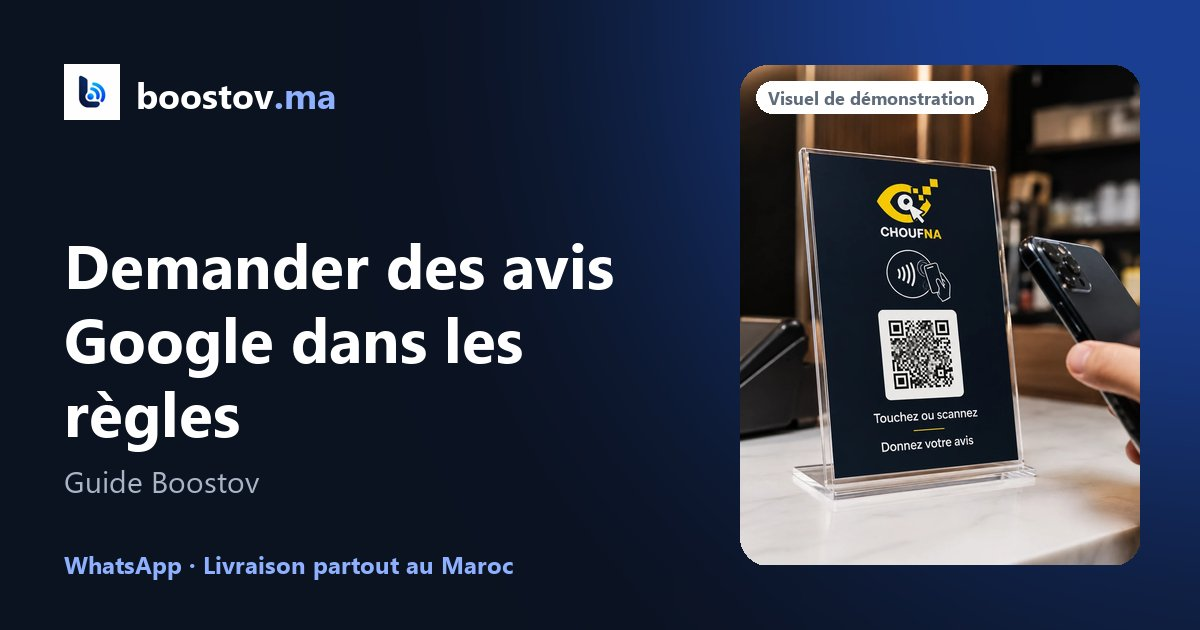
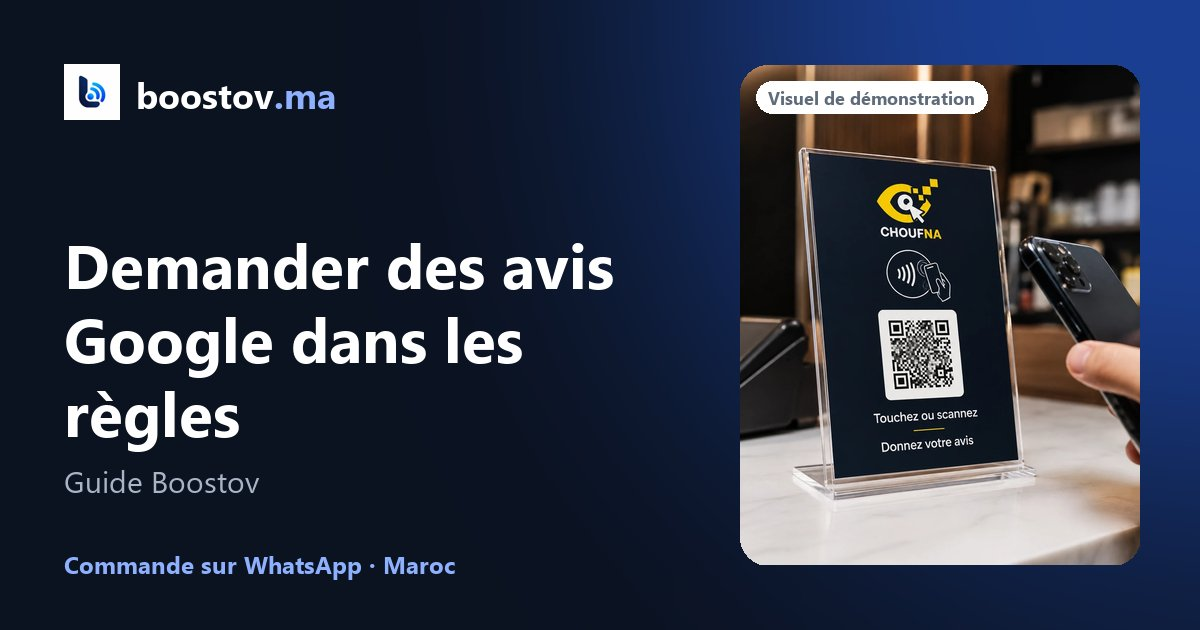
Remove all delivery prices from the site (discussed per customer on WhatsApp)

Changed region(s): [[0.0308, 0.8746, 0.4317, 0.9349]]

diff --git a/content/pages.fr.ts b/content/pages.fr.ts
@@ -2,11 +2,11 @@
 // prices only from src/config/pricing.ts, unconfirmed facts omitted (see content/TODO.md).
 import { PRICING } from "@/src/config/pricing";
 
-const { connect, grow, delivery, kits } = PRICING;
+const { connect, grow, kits } = PRICING;
 
 export const produits = {
   title: "Carte NFC Connect ou Grow : comparatif et prix | Boostov",
-  description: `Comparez Boostov Connect (carte de visite digitale, dès ${connect.carte} DH) et Boostov Grow (avis Google et fidélisation client, dès ${grow.carte} DH). Carte ou stand, livraison +${delivery} DH au Maroc.`,
+  description: `Comparez Boostov Connect (carte de visite digitale, dès ${connect.carte} DH) et Boostov Grow (avis Google et fidélisation client, dès ${grow.carte} DH). Carte ou stand, commande sur WhatsApp.`,
   eyebrow: "Produits",
   h1: "Connect ou Grow : quelle carte NFC pour votre commerce ?",
   lead: "Choisissez Connect pour que vos clients vous contactent, Grow pour obtenir des avis Google et les faire revenir. Les deux existent en carte et en stand de comptoir.",
@@ -47,7 +47,6 @@ export const produits = {
     ],
   },
   notes: [
-    `Livraison partout au Maroc : +${delivery} DH sur chaque commande.`,
     "La personnalisation est incluse dans le prix.",
     "La récompense Grow n’est jamais conditionnée à la publication d’un avis.",
   ],
@@ -87,7 +86,7 @@ export const stands = {
 
 export const revendeurs = {
   title: "Devenir revendeur NFC au Maroc : kits Boostov | Boostov",
-  description: `Kits revendeur Boostov : Kit 5 à ${kits.kit5.price} DH, Kit 10 à ${kits.kit10.price} DH (+${delivery} DH de livraison). Cartes NFC, accès au système et formation. Réservé aux 18 ans et plus.`,
+  description: `Kits revendeur Boostov : Kit 5 à ${kits.kit5.price} DH, Kit 10 à ${kits.kit10.price} DH : cartes NFC, accès au système et formation. Réservé aux 18 ans et plus.`,
   eyebrow: "Revendeurs",
   h1: "Devenir revendeur NFC Boostov.",
   lead: `Deux kits pour proposer Boostov aux commerces de votre ville : Kit 5 à ${kits.kit5.price} DH ou Kit 10 à ${kits.kit10.price} DH.`,
@@ -109,7 +108,7 @@ export const revendeurs = {
     title: "Comment ça marche",
     steps: [
       ["Précommandez sur WhatsApp", "Choisissez le Kit 5 ou le Kit 10."],
-      ["Recevez votre kit", `Livraison partout au Maroc, +${delivery} DH.`],
+      ["Recevez votre kit", "Avec vos cartes NFC Boostov."],
       ["Suivez la formation", "Et recevez votre accès au système."],
       ["Proposez Boostov", "Aux commerces de votre ville."],
     ] as [string, string][],
@@ -123,18 +122,17 @@ export const revendeurs = {
 };
 
 export const faqPage = {
-  title: "FAQ cartes et stands NFC : livraison, NFC ou QR, commande | Boostov",
-  description: "Réponses courtes sur les cartes et stands NFC Boostov : prix, livraison au Maroc, NFC ou QR code, personnalisation, avis Google et programme revendeur.",
+  title: "FAQ cartes et stands NFC : prix, NFC ou QR, commande | Boostov",
+  description: "Réponses courtes sur les cartes et stands NFC Boostov : prix, commande, NFC ou QR code, personnalisation, avis Google et programme revendeur.",
   eyebrow: "FAQ",
   h1: "Questions fréquentes sur les cartes et stands NFC.",
   lead: "Des réponses courtes et honnêtes. Une autre question ? Écrivez-nous sur WhatsApp.",
   groups: [
     {
-      id: "commande", title: "Commande, prix et livraison",
+      id: "commande", title: "Commande et prix",
       items: [
-        ["Comment commander ?", "Sur WhatsApp uniquement. Touchez un bouton « Commander » : le message nomme déjà le produit, puis nous confirmons avec vous le design, le paiement et la livraison."],
+        ["Comment commander ?", "Sur WhatsApp uniquement. Touchez un bouton « Commander » : le message nomme déjà le produit, puis nous confirmons avec vous le design et le paiement."],
         ["Combien coûtent les produits ?", `Connect : carte ${connect.carte} DH, stand ${connect.stand} DH. Grow : carte ${grow.carte} DH, stand ${grow.stand} DH. La personnalisation est incluse.`],
-        ["Combien coûte la livraison ?", `${delivery} DH sur chaque commande, partout au Maroc.`],
       ],
     },
     {

diff --git a/lib/site.ts b/lib/site.ts
@@ -1,60 +1,1 @@
-// Site copy shared by several pages. Prices always come from src/config/pricing.ts.
-import { PRICING } from "@/src/config/pricing";
-import type { MessageKey } from "@/lib/contact";
-
 export const SITE_URL = "https://boostov.ma";
-
-export const PRODUCTS = [
-  {
-    id: "connect",
-    name: "Boostov Connect",
-    tagline: "Votre commerce, en un tap.",
-    summary: "Un tap ou un scan ouvre la page de votre commerce : appel, WhatsApp, Instagram, itinéraire et contact enregistré.",
-    features: ["Appel, WhatsApp, Instagram et Maps en un geste", "Bouton « Enregistrer le contact »", "Galerie ou catalogue", "Informations modifiables sans changer la carte"],
-    img: { src: "/img/connect-profile.webp", w: 390, h: 844 },
-    prices: PRICING.connect,
-    msg: { carte: "connectCarte", stand: "connectStand" } as Record<"carte" | "stand", MessageKey>,
-  },
-  {
-    id: "grow",
-    name: "Boostov Grow",
-    tagline: "Chaque visite peut en amener une autre.",
-    summary: "Après l’achat, le client tape et suit un parcours simple : avis Google, partage avec ses proches, récompense pour revenir.",
-    features: ["Avis Google, toujours optionnel", "Partage avec ses proches", "Récompense à usage unique pour la prochaine visite", "Tableau de bord pour suivre les interactions"],
-    img: { src: "/img/grow-review.webp", w: 520, h: 1125 },
-    prices: PRICING.grow,
-    msg: { carte: "growCarte", stand: "growStand" } as Record<"carte" | "stand", MessageKey>,
-  },
-] as const;
-
-export const STEPS = [
-  { title: "Nous programmons", copy: "Votre carte ou votre stand est configuré avec la page de votre commerce." },
-  { title: "Vous le posez au comptoir", copy: "Là où vos clients paient, bien visible." },
-  { title: "Vos clients tapent ou scannent", copy: "NFC ou QR code : votre page s’ouvre, sans application." },
-] as const;
-
-export const FAQ: { group: string; items: [string, string][] }[] = [
-  {
-    group: "Commande et livraison",
-    items: [
-      ["Comment commander ?", "Touchez un bouton « Commander » : WhatsApp s’ouvre avec le produit déjà écrit. Nous confirmons ensuite les détails et le paiement avec vous."],
-      ["Combien coûte la livraison ?", `+${PRICING.delivery} DH sur chaque commande, partout au Maroc.`],
-    ],
-  },
-  {
-    group: "Produits",
-    items: [
-      ["Que comprend la personnalisation ?", "Votre logo, vos couleurs, votre QR code et le texte de votre choix (nom, slogan, réseaux). Le design est défini avec vous sur WhatsApp."],
-      ["Et si le téléphone n’a pas le NFC ?", "Le QR code imprimé ouvre exactement la même page. Le client le scanne avec l’appareil photo."],
-      ["Faut-il installer une application ?", "Non. La page s’ouvre directement dans le navigateur du téléphone."],
-      ["Puis-je modifier ma page après la commande ?", "Oui. Vos informations et liens peuvent changer sans remplacer la carte ou le stand."],
-    ],
-  },
-  {
-    group: "Revendeurs",
-    items: [
-      ["Comment devenir revendeur ?", "Précommandez le Kit 5 ou le Kit 10 sur WhatsApp. Réservé aux personnes de 18 ans et plus."],
-      ["Combien vais-je gagner ?", "Nous ne promettons aucun revenu. Vos résultats dépendent uniquement de vos ventes."],
-    ],
-  },
-];

diff --git a/content/fr.ts b/content/fr.ts
@@ -3,7 +3,7 @@
 // Unknown facts are omitted; see content/TODO.md.
 import { PRICING } from "@/src/config/pricing";
 
-const { connect, grow, delivery, kits } = PRICING;
+const { connect, grow, kits } = PRICING;
 const minPrice = Math.min(connect.carte, connect.stand, grow.carte, grow.stand);
 
 export const fr = {
@@ -18,7 +18,6 @@ export const fr = {
     example: "Exemple de personnalisation",
     from: "dès",
     dh: "DH",
-    delivery: `Livraison partout au Maroc : +${delivery} DH`,
   },
   home: {
     hero: {
@@ -62,7 +61,7 @@ export const fr = {
       items: [
         { title: "Choisissez et écrivez-nous", copy: "Connect ou Grow, carte ou stand.", action: "Vous : un message WhatsApp." },
         { title: "Envoyez votre logo, vos couleurs et vos liens", copy: "Nous préparons votre design et votre page.", action: "Vous : vos fichiers et liens." },
-        { title: "Recevez-le prêt à l’emploi", copy: `Livraison partout au Maroc (+${delivery} DH).`, action: "Vous : posez-le au comptoir." },
+        { title: "Recevez-le prêt à l’emploi", copy: "Votre carte ou votre stand arrive prêt à l’emploi.", action: "Vous : posez-le au comptoir." },
       ],
       cta: "Commencer sur WhatsApp",
     },
@@ -89,7 +88,6 @@ export const fr = {
       eyebrow: "FAQ",
       title: "Les questions qu’on nous pose.",
       items: [
-        ["Combien coûte la livraison ?", `${delivery} DH sur chaque commande, partout au Maroc.`],
         ["Faut-il une application ?", "Non. La page s’ouvre dans le navigateur du téléphone, d’un tap NFC ou d’un scan du QR code."],
         ["Et si le téléphone n’a pas le NFC ?", "Le QR code imprimé ouvre la même page. Le client le scanne avec l’appareil photo."],
         ["Comment commander ?", "Touchez un bouton WhatsApp : le message nomme déjà le produit. Nous confirmons ensuite les détails et le paiement avec vous."],
@@ -98,7 +96,7 @@ export const fr = {
     },
     final: {
       title: "Prêt à équiper votre comptoir ?",
-      lead: `Écrivez-nous sur WhatsApp. Cartes dès ${minPrice} DH, livraison +${delivery} DH partout au Maroc.`,
+      lead: `Écrivez-nous sur WhatsApp. Cartes et stands personnalisés dès ${minPrice} DH.`,
       cta: "Commander sur WhatsApp",
     },
   },

diff --git a/lib/schema.ts b/lib/schema.ts
@@ -1,7 +1,6 @@
 // JSON-LD builders. Only true data: names, prices and contact come from the same sources as the visible copy.
 import { INSTAGRAM_URL, PHONE_E164 } from "@/lib/contact";
 import { SITE_URL } from "@/lib/site";
-import { PRICING } from "@/src/config/pricing";
 
 const ORG_ID = `${SITE_URL}/#organization`;
 
@@ -17,11 +16,6 @@ export const organization = {
   contactPoint: [{ "@type": "ContactPoint", telephone: PHONE_E164, contactType: "sales", areaServed: "MA", availableLanguage: ["fr", "ar"], contactOption: "WhatsApp" }],
 };
 
-const shipping = {
-  "@type": "OfferShippingDetails",
-  shippingRate: { "@type": "MonetaryAmount", value: PRICING.delivery, currency: "MAD" },
-  shippingDestination: { "@type": "DefinedRegion", addressCountry: "MA" },
-};
 
 export function product(name: string, description: string, image: string, offers: { name: string; price: number }[]) {
   return {
@@ -31,7 +25,7 @@ export function product(name: string, description: string, image: string, offers
     description,
     image: `${SITE_URL}${image}`,
     brand: { "@type": "Brand", name: "Boostov" },
-    offers: offers.map((o) => ({ "@type": "Offer", name: o.name, price: o.price, priceCurrency: "MAD", seller: { "@id": ORG_ID }, shippingDetails: shipping })),
+    offers: offers.map((o) => ({ "@type": "Offer", name: o.name, price: o.price, priceCurrency: "MAD", seller: { "@id": ORG_ID } })),
   };
 }
 

diff --git a/app/llms.txt/route.ts b/app/llms.txt/route.ts
@@ -7,7 +7,7 @@ import { POSTS } from "@/content/blog.fr";
 export const dynamic = "force-static";
 
 export function GET() {
-  const { connect, grow, delivery, kits } = PRICING;
+  const { connect, grow, kits } = PRICING;
   const body = `# Boostov
 
 > Boostov (boostov.ma) vend des cartes et des stands NFC personnalisés, avec QR code de secours, pour les commerces au Maroc. Basé à Agadir. Commande uniquement sur WhatsApp.
@@ -16,7 +16,6 @@ export function GET() {
 - Boostov Connect : carte de visite digitale. Un tap NFC ou un scan du QR code ouvre la page du commerce (appel, WhatsApp, Instagram, itinéraire, enregistrer le contact). Carte ${connect.carte} DH, stand ${connect.stand} DH.
 - Boostov Grow : après l'achat, le client tape et suit un parcours avis Google (optionnel), partage et récompense pour sa prochaine visite. La récompense n'est jamais liée à la publication d'un avis. Carte ${grow.carte} DH, stand ${grow.stand} DH.
 - Personnalisation incluse : logo, nom, couleurs, QR code, texte.
-- Livraison partout au Maroc : +${delivery} DH par commande.
 - Sans application : la page s'ouvre dans le navigateur du téléphone.
 
 ## Revendeurs (18 ans et plus)

diff --git a/app/page.tsx b/app/page.tsx
@@ -62,7 +62,7 @@ export default function Home() {
           </div>
         </li>)}
       </ul>
-      <p className="shelf-foot"><span>{fr.labels.delivery}</span><Link className="link-arrow" href="/produits">{t.products.compare}<ArrowRight size={16} aria-hidden="true" /></Link></p>
+      <p className="shelf-foot"><Link className="link-arrow" href="/produits">{t.products.compare}<ArrowRight size={16} aria-hidden="true" /></Link></p>
     </Section>
 
     {/* 4. How it works */}
@@ -106,7 +106,7 @@ export default function Home() {
             <p><span>{t.kits.kit5}</span><strong>{PRICING.kits.kit5.price}<em>{fr.labels.dh}</em></strong></p>
             <p><span>{t.kits.kit10}</span><strong>{PRICING.kits.kit10.price}<em>{fr.labels.dh}</em></strong></p>
           </div>
-          <p className="small">{t.kits.adult} +{PRICING.delivery} DH de livraison.</p>
+          <p className="small">{t.kits.adult}</p>
           <div className="kits6-actions">
             <WaButton msg="reseller" size="lg">Précommander un kit</WaButton>
             <Button href="/revendeurs" variant="ghost-dark" size="lg">{t.kits.more}<ArrowRight size={18} aria-hidden="true" /></Button>

diff --git a/components/site/chrome.tsx b/components/site/chrome.tsx
@@ -1,5 +1,5 @@
 import Link from "next/link";
-import { Menu, Truck, X } from "lucide-react";
+import { Menu, X } from "lucide-react";
 import { INSTAGRAM_URL, PHONE_DISPLAY } from "@/lib/contact";
 import { fr } from "@/content/fr";
 import { NavLinks } from "@/components/site/nav-links";
@@ -36,7 +36,7 @@ export function SiteFooter() {
   return <footer className="footer">
     <div className="container">
       <div className="footer-grid">
-        <div className="footer-col"><Brand /><p>{f.tagline}</p><p className="footer-delivery"><Truck size={16} aria-hidden="true" />{fr.labels.delivery}</p></div>
+        <div className="footer-col"><Brand /><p>{f.tagline}</p></div>
         <div className="footer-col"><b>{f.site}</b><Link href="/produits">{fr.nav.produits}</Link><Link href="/revendeurs">{fr.nav.revendeurs}</Link><Link href="/stands">Stands</Link><Link href="/faq">{fr.nav.faq}</Link><Link href="/blog">Guides</Link></div>
         <div className="footer-col"><b>{f.contact}</b>
           <WaButton msg="info" variant="ghost-dark">WhatsApp {PHONE_DISPLAY}</WaButton>

diff --git a/app/globals.css b/app/globals.css
@@ -334,7 +334,6 @@ ul, ol { margin: 0; padding: 0; list-style: none; }
 .final6 { padding-block: var(--s-9); background: radial-gradient(80% 120% at 50% 0%, rgba(40, 100, 240, .55), transparent 70%), var(--ink); color: var(--white); text-align: center; }
 .final6-inner { display: grid; justify-items: center; gap: var(--s-5); }
 .final6 .lead { color: var(--on-dark-muted); max-width: 560px; }
-.footer-delivery { display: flex; align-items: center; gap: var(--s-2); margin-top: var(--s-3); color: var(--on-dark); }
 .footer-legal { display: flex; gap: var(--s-4); }
 .footer-legal a { display: inline-flex; align-items: center; min-height: 44px; color: var(--on-dark); text-decoration: none; }
 .footer-legal a:hover { color: var(--white); }

diff --git a/app/stands/page.tsx b/app/stands/page.tsx
@@ -45,7 +45,7 @@ export default function Stands() {
           <WaButton msg={o.msg} block>Commander le {o.name}</WaButton>
         </div>
       </article>)}</div>
-      <ul className="notes"><li className="note-item"><Check size={18} aria-hidden="true" />Personnalisation incluse. Livraison partout au Maroc : +{PRICING.delivery} DH.</li></ul>
+      <ul className="notes"><li className="note-item"><Check size={18} aria-hidden="true" />Personnalisation incluse dans le prix.</li></ul>
     </Section>
   </>;
 }

diff --git a/src/config/pricing.ts b/src/config/pricing.ts
@@ -2,7 +2,6 @@
 export const PRICING = {
   connect: { carte: 200, stand: 250 },
   grow: { carte: 250, stand: 300 },
-  delivery: 40,
   kits: {
     kit5: { cartes: 5, price: 250 },
     kit10: { cartes: 10, price: 350 },

diff --git a/scripts/build-og.py b/scripts/build-og.py
@@ -24,7 +24,7 @@ PAGES = {
     "produits": ("Connect ou Grow ?", "Comparatif des cartes et stands NFC Boostov.", "connect-stand.jpg"),
     "stands": ("Stand NFC personnalisé", "Votre logo, vos couleurs, NFC + QR code.", "grow-stand-avis.jpg"),
     "revendeurs": ("Devenir revendeur NFC", f"Kits Boostov dès {kit5} DH. Réservé aux 18 ans et plus.", "kit-cards.jpg"),
-    "faq": ("Questions fréquentes", "Livraison, NFC ou QR, personnalisation.", "connect-stand.jpg"),
+    "faq": ("Questions fréquentes", "Prix, NFC ou QR, personnalisation.", "connect-stand.jpg"),
     "blog": ("Guides pour les commerces", "Avis Google, NFC et QR code.", "grow-stand-avis.jpg"),
     "blog-avis": ("Demander des avis Google dans les règles", "Guide Boostov", "grow-stand-avis.jpg"),
     "blog-nfc-qr": ("Carte NFC ou QR code ?", "Guide Boostov", "connect-stand.jpg"),
@@ -80,7 +80,7 @@ for name, (title, sub, photo) in PAGES.items():
         d.text((64, y), line, font=tf, fill=WHITE)
         y += 74
     d.text((64, y + 16), sub, font=ImageFont.truetype(REG, 30), fill=MUTED)
-    d.text((64, 548), "WhatsApp · Livraison partout au Maroc", font=ImageFont.truetype(BOLD, 24), fill=(143, 176, 255))
+    d.text((64, 548), "Commande sur WhatsApp · Maroc", font=ImageFont.truetype(BOLD, 24), fill=(143, 176, 255))
     im.save(OUT / f"{name}.jpg", quality=85, optimize=True, progressive=True)
 
 print(sorted(x.name for x in OUT.iterdir()))
